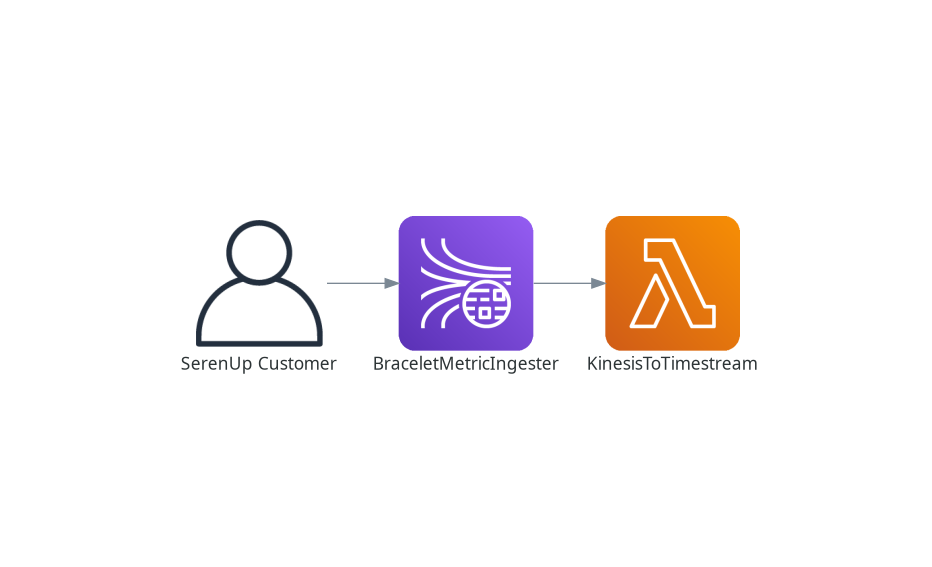
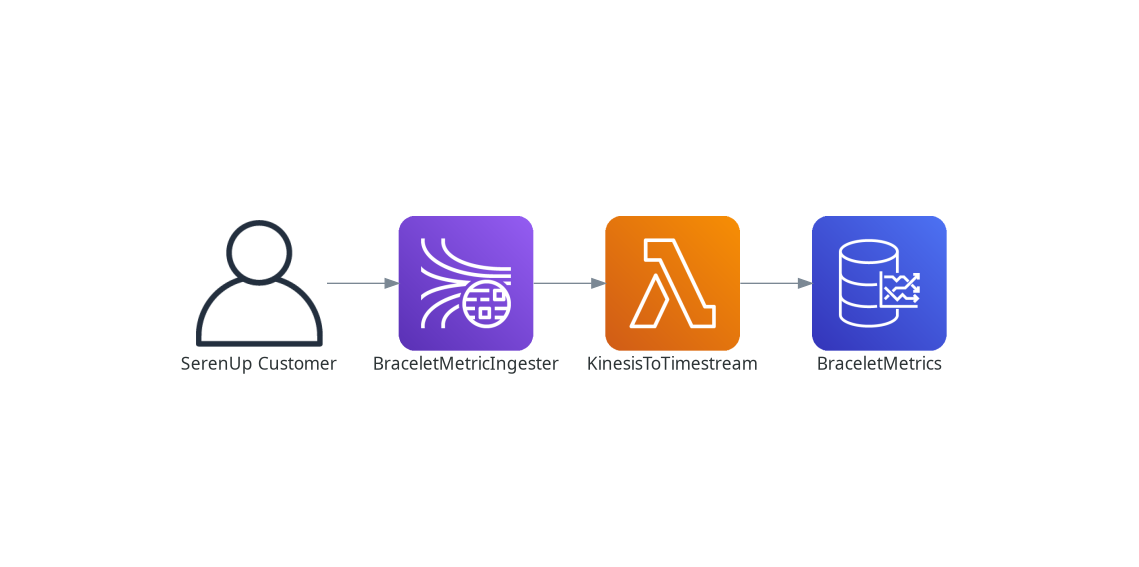
docs: add missing timestream db in ingester

Changed region(s): [[0.1556, 0.3598, 0.8401, 0.6596]]

diff --git a/docs/ingester.py b/docs/ingester.py
@@ -2,6 +2,10 @@ from diagrams import Diagram
 from diagrams.onprem.client import User
 from diagrams.aws.analytics import KinesisDataStreams
 from diagrams.aws.compute import Lambda
+from diagrams.aws.database import Timestream
 
 with Diagram("", filename="docs/ingester"):
-    User("SerenUp Customer") >> KinesisDataStreams("BraceletMetricIngester") >> Lambda("KinesisToTimestream")
+    User("SerenUp Customer") \
+        >> KinesisDataStreams("BraceletMetricIngester") \
+        >> Lambda("KinesisToTimestream") \
+        >> Timestream("BraceletMetrics")
